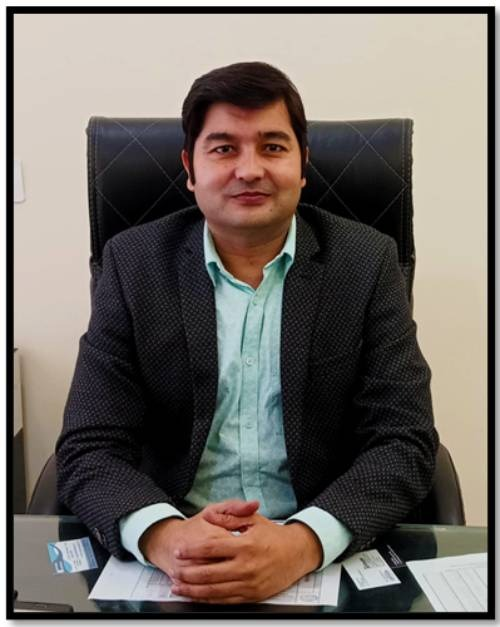
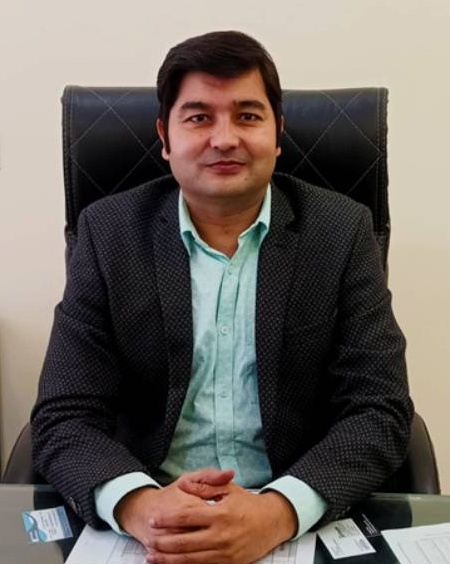
Refine executive photo frame style using exact slanted polygon clip-path matching Burger Singh reference layout

diff --git a/about.html b/about.html
@@ -107,36 +107,35 @@
     }
 
     .bs-team-inner {
-      max-width: 1200px;
+      max-width: 1240px;
       margin: 0 auto;
       display: grid;
-      grid-template-columns: 290px 1fr;
+      grid-template-columns: 320px 1fr;
       align-items: center;
-      min-height: 290px;
+      min-height: 320px;
       padding: 0 20px;
       gap: 40px;
     }
 
     .bs-team-inner.reverse-row {
-      grid-template-columns: 1fr 290px;
+      grid-template-columns: 1fr 320px;
     }
 
     .bs-team-photo-wrap {
       width: 100%;
-      height: 310px;
+      height: 320px;
       position: relative;
       overflow: hidden;
-      transform: skewX(-14deg);
+      clip-path: polygon(16% 0, 100% 0, 84% 100%, 0% 100%);
       background: #CBD5E1;
       box-shadow: 0 10px 30px rgba(0, 0, 0, 0.2);
     }
 
     .bs-team-photo {
-      width: 135%;
+      width: 100%;
       height: 100%;
       object-fit: cover;
-      object-position: center 20%;
-      transform: skewX(14deg) translateX(-12%);
+      object-position: center top;
       display: block;
     }
 
@@ -157,7 +156,7 @@
     }
 
     .bs-team-bio-text {
-      font-size: 0.96rem;
+      font-size: 0.98rem;
       line-height: 1.8;
       color: #2D3748;
       margin: 0 0 12px;
@@ -172,13 +171,12 @@
       }
       
       .bs-team-photo-wrap {
-        transform: none;
-        height: 280px;
-        border-radius: 12px;
+        clip-path: none;
+        height: 300px;
+        border-radius: 14px;
       }
       
       .bs-team-photo {
-        transform: none;
         width: 100%;
         object-position: center top;
       }
